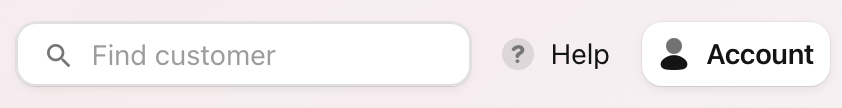
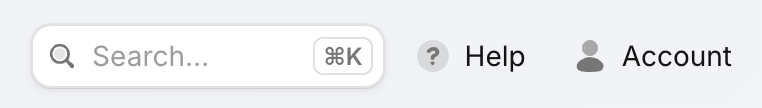
fix: update find customer docs

diff --git a/docs/dashboard-and-metrics/customer-lists.md b/docs/dashboard-and-metrics/customer-lists.md
@@ -17,15 +17,21 @@ To view customers who have made sandbox transactions you can use the default San
 
 ## Find an Individual Customer
 
-You can look up an individual customer by an exact match of their App User ID, Transaction ID, Email Attribute, or Order ID (iOS only). To find a customer via Order ID, you can follow our guide on setting up [In-App Purchase Keys](/service-credentials/itunesconnect-app-specific-shared-secret/in-app-purchase-key-configuration) to unlock this feature. The transaction must show as completed in the [Apple Purchase History](https://support.apple.com/en-gb/HT204088) to be considered a valid Order ID. Note that Transaction ID refers to the identifier in Google Play console and order emails of GPA.1234.1223–, and for Stripe si_abcefg, whereas Order ID refers to the identifier from Apple's order emails.
+To find an individual customer, use the search bar or the hotkey (⌘K on Mac and iPad, Ctrl+K on other devices) to search by an exact match of their App User ID, Transaction ID, Email Attribute, or Order ID (iOS only).
+
+Looking up customers is real-time. They will be searchable here as soon as a customer exists in RevenueCat.
+
+![Find a customer using the global search](/docs_images/customers/find-customer.png)
+
+![Find a customer results in the global search dialog](/docs_images/customers/find-customer-dialog.png)
+
+### iOS Order ID
+
+To find a customer via Order ID, you can follow our guide on setting up [In-App Purchase Keys](/service-credentials/itunesconnect-app-specific-shared-secret/in-app-purchase-key-configuration) to unlock this feature. The transaction must show as completed in the [Apple Purchase History](https://support.apple.com/en-gb/HT204088) to be considered a valid Order ID. Note that Transaction ID refers to the identifier in Google Play console and order emails of GPA.1234.1223–, and for Stripe si_abcefg, whereas Order ID refers to the identifier from Apple's order emails.
 
 :::warning Sandbox transaction search
 Customer lookup by Transaction ID and Order ID works for production purchases only.
 :::
-
-Looking up customers in RevenueCat is real-time, as soon as a customer exists in RevenueCat they will be searchable here.
-
-![Find a customer](/docs_images/customers/find-customer.png)
 
 ## Viewing a List
 
